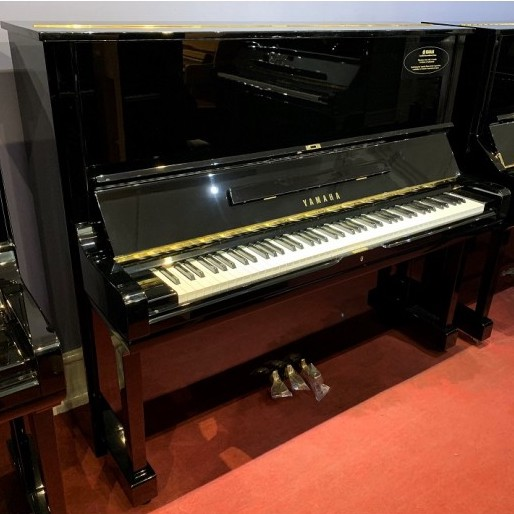
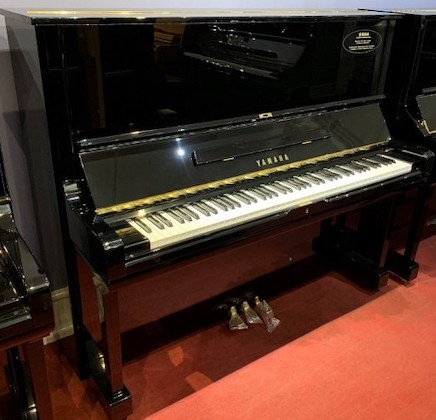
main img update

diff --git a/index.html b/index.html
@@ -144,7 +144,7 @@
                      </a>
                      <div class="portfolio-caption">
                         <div class="portfolio-caption-heading">Piano Stock</div>
-                        <div class="portfolio-caption-subheading text-muted">Yamaha</div>
+                        <div class="portfolio-caption-subheading text-muted">September 2020(1st Stock)</div>
                      </div>
                   </div>
                </div>
@@ -160,7 +160,7 @@
                      </a>
                      <div class="portfolio-caption">
                         <div class="portfolio-caption-heading">Piano Stock</div>
-                        <div class="portfolio-caption-subheading text-muted">Yamaha</div>
+                        <div class="portfolio-caption-subheading text-muted">September 2020(2nd Stock)</div>
                      </div>
                   </div>
                </div>
@@ -176,7 +176,7 @@
                      </a>
                      <div class="portfolio-caption">
                         <div class="portfolio-caption-heading">Piano Stock</div>
-                        <div class="portfolio-caption-subheading text-muted">Yamaha</div>
+                        <div class="portfolio-caption-subheading text-muted">August 2020 (2nd Stock)</div>
                      </div>
                   </div>
                </div>
@@ -192,7 +192,7 @@
                      </a>
                      <div class="portfolio-caption">
                         <div class="portfolio-caption-heading">Grand Piano</div>
-                        <div class="portfolio-caption-subheading text-muted">Yamaha</div>
+                        <div class="portfolio-caption-subheading text-muted">KAWAI</div>
                      </div>
                   </div>
                </div>
@@ -208,7 +208,7 @@
                      </a>
                      <div class="portfolio-caption">
                         <div class="portfolio-caption-heading">Grand Piano</div>
-                        <div class="portfolio-caption-subheading text-muted">Yamaha</div>
+                        <div class="portfolio-caption-subheading text-muted">KAWAI</div>
                      </div>
                   </div>
                </div>
@@ -322,7 +322,7 @@
                   <a href="#!"><img class="img-fluid d-block mx-auto" src="assets/img/logos/logoPetrof.svg" alt="logoPetrof" /></a>
                </div>
                <div class="col-md-2 col-sm-6 my-3">
-                  <a href="#!"><img class="img-fluid d-block mx-auto" src="assets/img/logos/Blüthner-Logo.svg.png" alt="Blüthner" /></a>
+                  <a href="#!"><img class="img-fluid d-block mx-auto" src="assets/img/logos/Bluthner-Logo.svg.png" alt="Blüthner" /></a>
                </div>
             </div>
          </div>

diff --git a/css/styles.css b/css/styles.css
@@ -10092,7 +10092,7 @@ header.masthead {
   padding-bottom: 6rem;
   text-align: center;
   color: #fed136;
-  background-image: url("../assets/img/piano.jpg");
+  background-image: url("../assets/img/main.jpg");
   background-repeat: no-repeat;
   background-attachment: scroll;
   background-position: center center;
